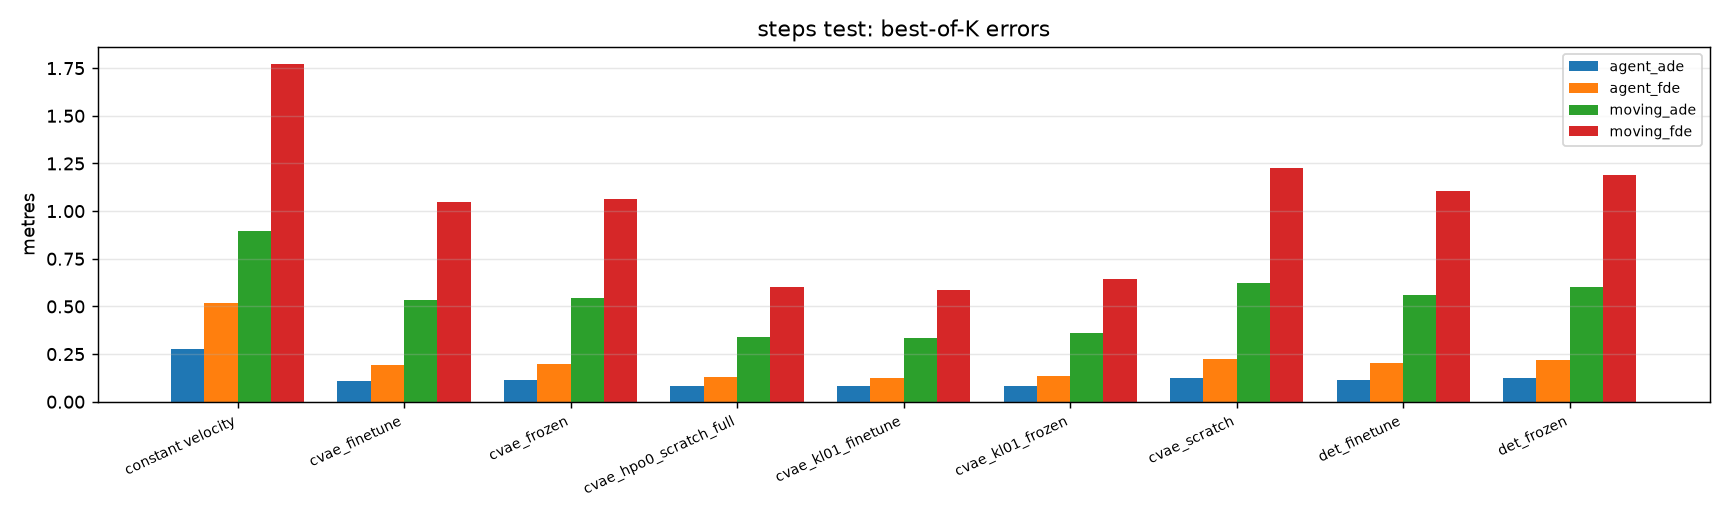
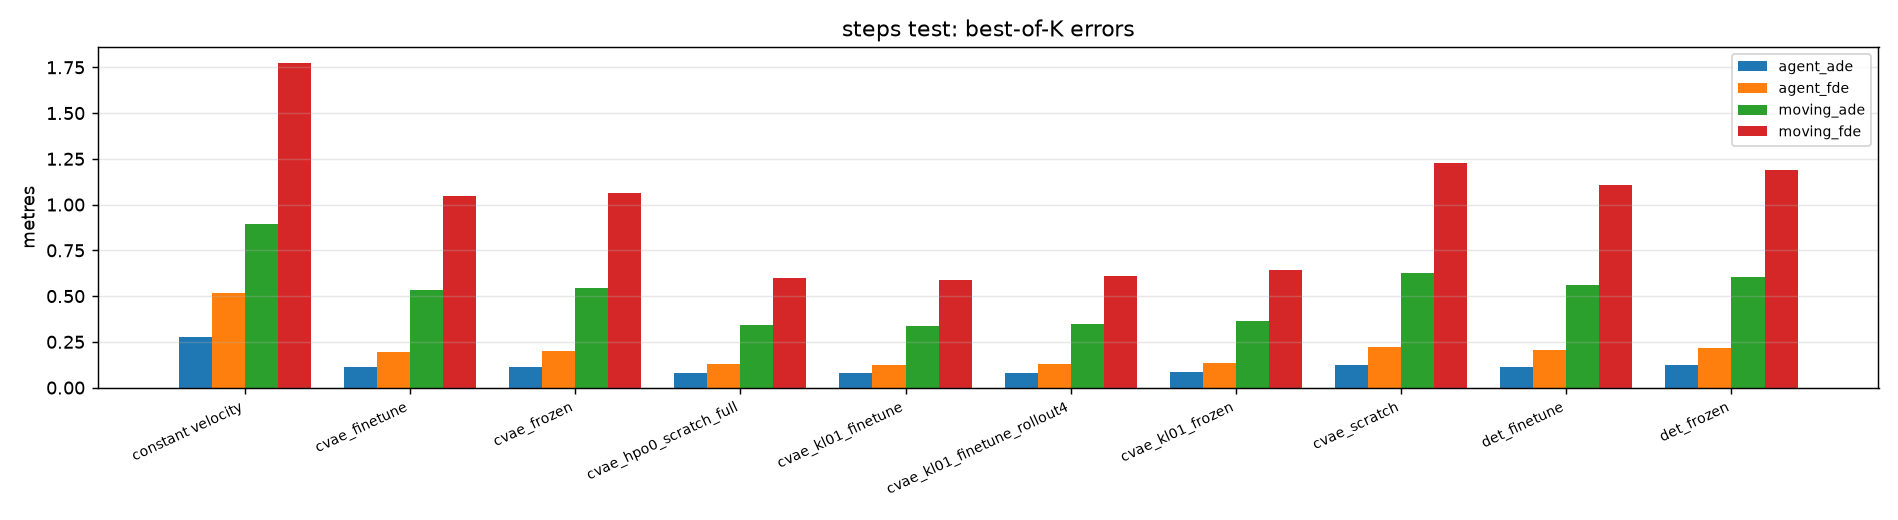
Log closed-loop training ablation; update test table

diff --git a/docs/results/stars_ma_steps_test.md b/docs/results/stars_ma_steps_test.md
@@ -9,6 +9,7 @@
 | cvae_frozen | 0.113 | 0.197 | 0.545 | 1.062 | 0.044 | 0.118 | 0.210 | 0.120 | 0.001 |
 | cvae_hpo0_scratch_full | 0.081 | 0.129 | 0.342 | 0.600 | 0.040 | 0.083 | 0.132 | 0.097 | 0.001 |
 | cvae_kl01_finetune | 0.080 | 0.126 | 0.336 | 0.588 | 0.039 | 0.081 | 0.128 | 0.097 | 0.001 |
+| cvae_kl01_finetune_rollout4 | 0.080 | 0.127 | 0.345 | 0.609 | 0.038 | 0.082 | 0.131 | 0.103 | 0.001 |
 | cvae_kl01_frozen | 0.084 | 0.134 | 0.362 | 0.643 | 0.040 | 0.086 | 0.139 | 0.103 | 0.001 |
 | cvae_scratch | 0.126 | 0.223 | 0.625 | 1.228 | 0.046 | 0.133 | 0.240 | 0.132 | 0.001 |
 | det_finetune | 0.115 | 0.205 | 0.559 | 1.107 | 0.045 | 0.121 | 0.221 | 0.119 | 0.001 |
@@ -22,6 +23,7 @@
 | cvae_frozen | 0.113 | 0.112 | 0.113 |
 | cvae_hpo0_scratch_full | 0.089 | 0.082 | 0.081 |
 | cvae_kl01_finetune | 0.084 | 0.081 | 0.080 |
+| cvae_kl01_finetune_rollout4 | 0.085 | 0.081 | 0.080 |
 | cvae_kl01_frozen | 0.088 | 0.085 | 0.084 |
 | cvae_scratch | 0.132 | 0.123 | 0.126 |
 | det_finetune | 0.126 | 0.117 | 0.115 |
@@ -35,6 +37,7 @@
 | cvae_frozen | 0.000 | 0.001 | 0.084 | 0.294 | 0.061 | 0.141 |
 | cvae_hpo0_scratch_full | 0.000 | 0.002 | 0.067 | 0.292 | 0.102 | 0.141 |
 | cvae_kl01_finetune | 0.000 | 0.002 | 0.075 | 0.290 | 0.115 | 0.141 |
+| cvae_kl01_finetune_rollout4 | 0.000 | 0.002 | 0.062 | 0.293 | 0.098 | 0.141 |
 | cvae_kl01_frozen | 0.000 | 0.002 | 0.062 | 0.284 | 0.104 | 0.141 |
 | cvae_scratch | 0.000 | 0.001 | 0.087 | 0.301 | 0.058 | 0.141 |
 | det_finetune | 0.000 | 0.001 | 0.068 | 0.302 | 0.077 | 0.141 |

diff --git a/docs/decisions.md b/docs/decisions.md
@@ -412,3 +412,17 @@ why, and how to undo it.
     start from v1). The same forecaster also supplies the policy's predictions.
     The git index lock seen again at 02:08 came from search workers started before the lock-free
     fix (entry after 39); removed as stale (>60 s old, no local git process).
+
+47. **Ablation: closed-loop (multi-step) training does not help on STEPS.** Low-KL fine-tuned CVAE
+    with vs without `--rollout-exec-steps 4`, test split:
+
+    | | Teacher-forced only | Plus closed-loop loss |
+    | --- | --- | --- |
+    | Agent ADE | 0.080 m | 0.080 m |
+    | Moving ADE | 0.336 m | 0.345 m |
+    | Joint ADE | 0.097 m | 0.103 m |
+    | Closed-loop ADE at 1 / 4 / 12 executed steps | 0.084 / 0.081 / 0.080 | 0.085 / 0.081 / 0.080 |
+    | 20 s simulated speed (smoothed real 0.115 m/s) | 0.115 m/s | 0.098 m/s |
+
+    The teacher-forced model is already stable in closed loop; the multi-step loss costs ~3x
+    compute and slightly hurts. It stays available as a flag but is not used by default.
